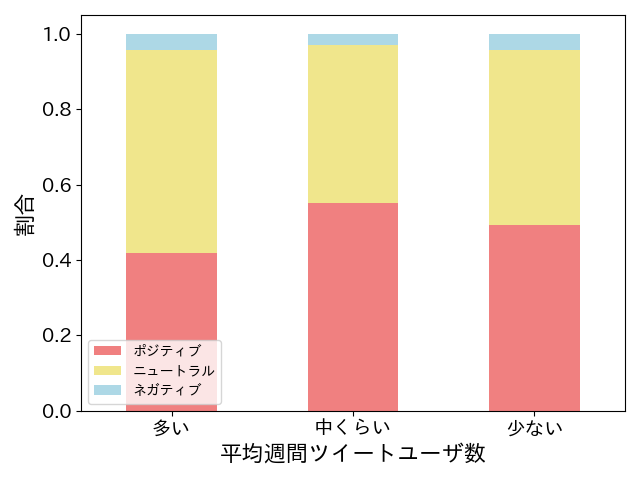
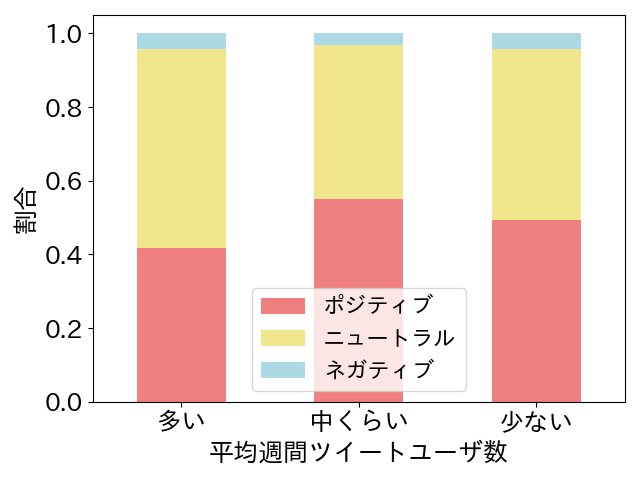
2024-02-28 2

diff --git a/work_emo_analyze/llm-lora-classification/src/analyze/emo_radio_class.py b/work_emo_analyze/llm-lora-classification/src/analyze/emo_radio_class.py
@@ -142,13 +142,14 @@ cluster_analysis.plot(
 )
 
 # plt.title('クラスタ毎の感情割合')
-plt.xlabel('週間ツイートユーザ数の推移傾向', fontsize=16)
+plt.xlabel('週間ツイートユーザ数の推移傾向', fontsize=18)
 plt.xticks(rotation=0)
-plt.ylabel('割合', fontsize=16)
-plt.tick_params(axis='both', labelsize=14)
-plt.legend(['ポジティブ', 'ニュートラル', 'ネガティブ'])
+plt.ylabel('割合', fontsize=18)
+plt.tick_params(axis='both', labelsize=18)
+plt.legend(['ポジティブ', 'ニュートラル', 'ネガティブ'], fontsize=16)
 plt.tight_layout()  # ラベルが画像の外に出ないように調整
 plt.savefig("./src/analyze/emo_radio_class_weekly.pdf")
+plt.savefig("./src/analyze/emo_radio_class_weekly.png")
 plt.close()
 
 grouped_df = combined_df.groupby(['mean_tweet_user_clusters'])
@@ -175,13 +176,14 @@ cluster_analysis.plot(
 )
 
 # plt.title('クラスタ毎の感情割合')
-plt.xlabel('平均週間ツイートユーザ数', fontsize=16)
+plt.xlabel('平均週間ツイートユーザ数', fontsize=18)
 plt.xticks(rotation=0)
-plt.ylabel('割合', fontsize=16)
-plt.tick_params(axis='both', labelsize=14)
-plt.legend(['ポジティブ', 'ニュートラル', 'ネガティブ'])
+plt.ylabel('割合', fontsize=18)
+plt.tick_params(axis='both', labelsize=18)
+plt.legend(['ポジティブ', 'ニュートラル', 'ネガティブ'], fontsize=16)
 plt.tight_layout()  # ラベルが画像の外に出ないように調整
 plt.savefig("./src/analyze/emo_radio_class_mean.pdf")
+plt.savefig("./src/analyze/emo_radio_class_mean.png")
 plt.close()
 
 
